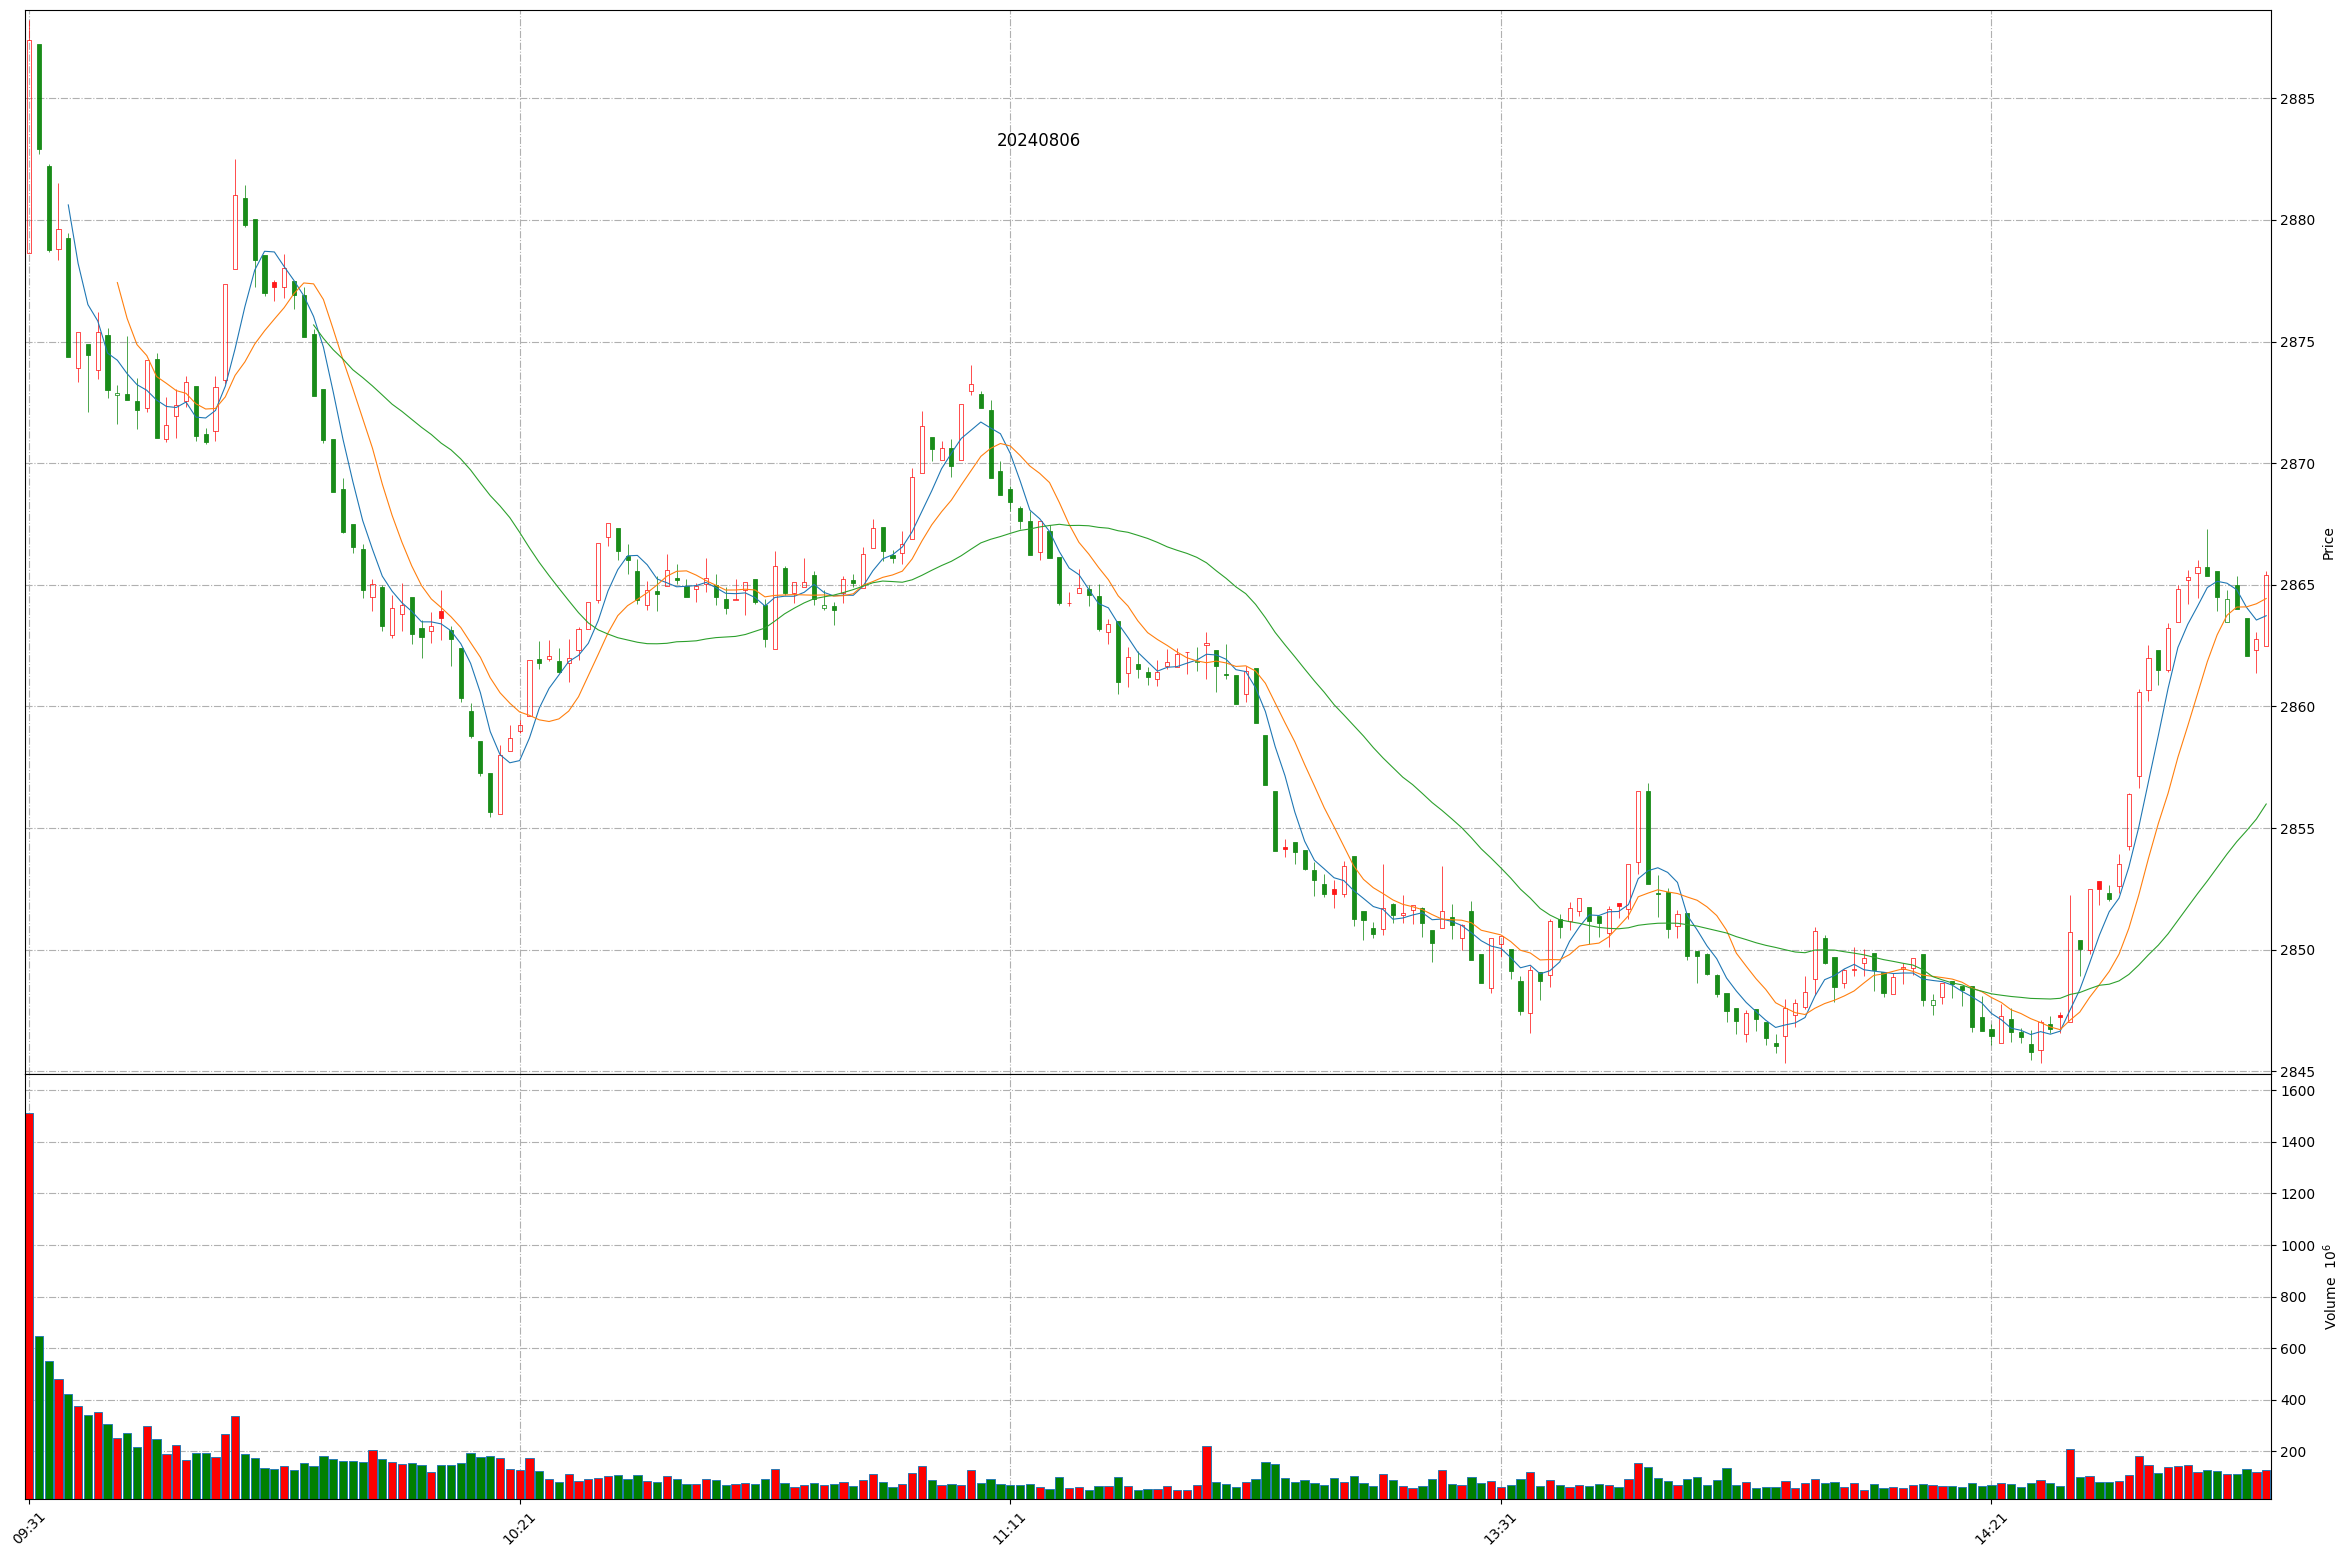
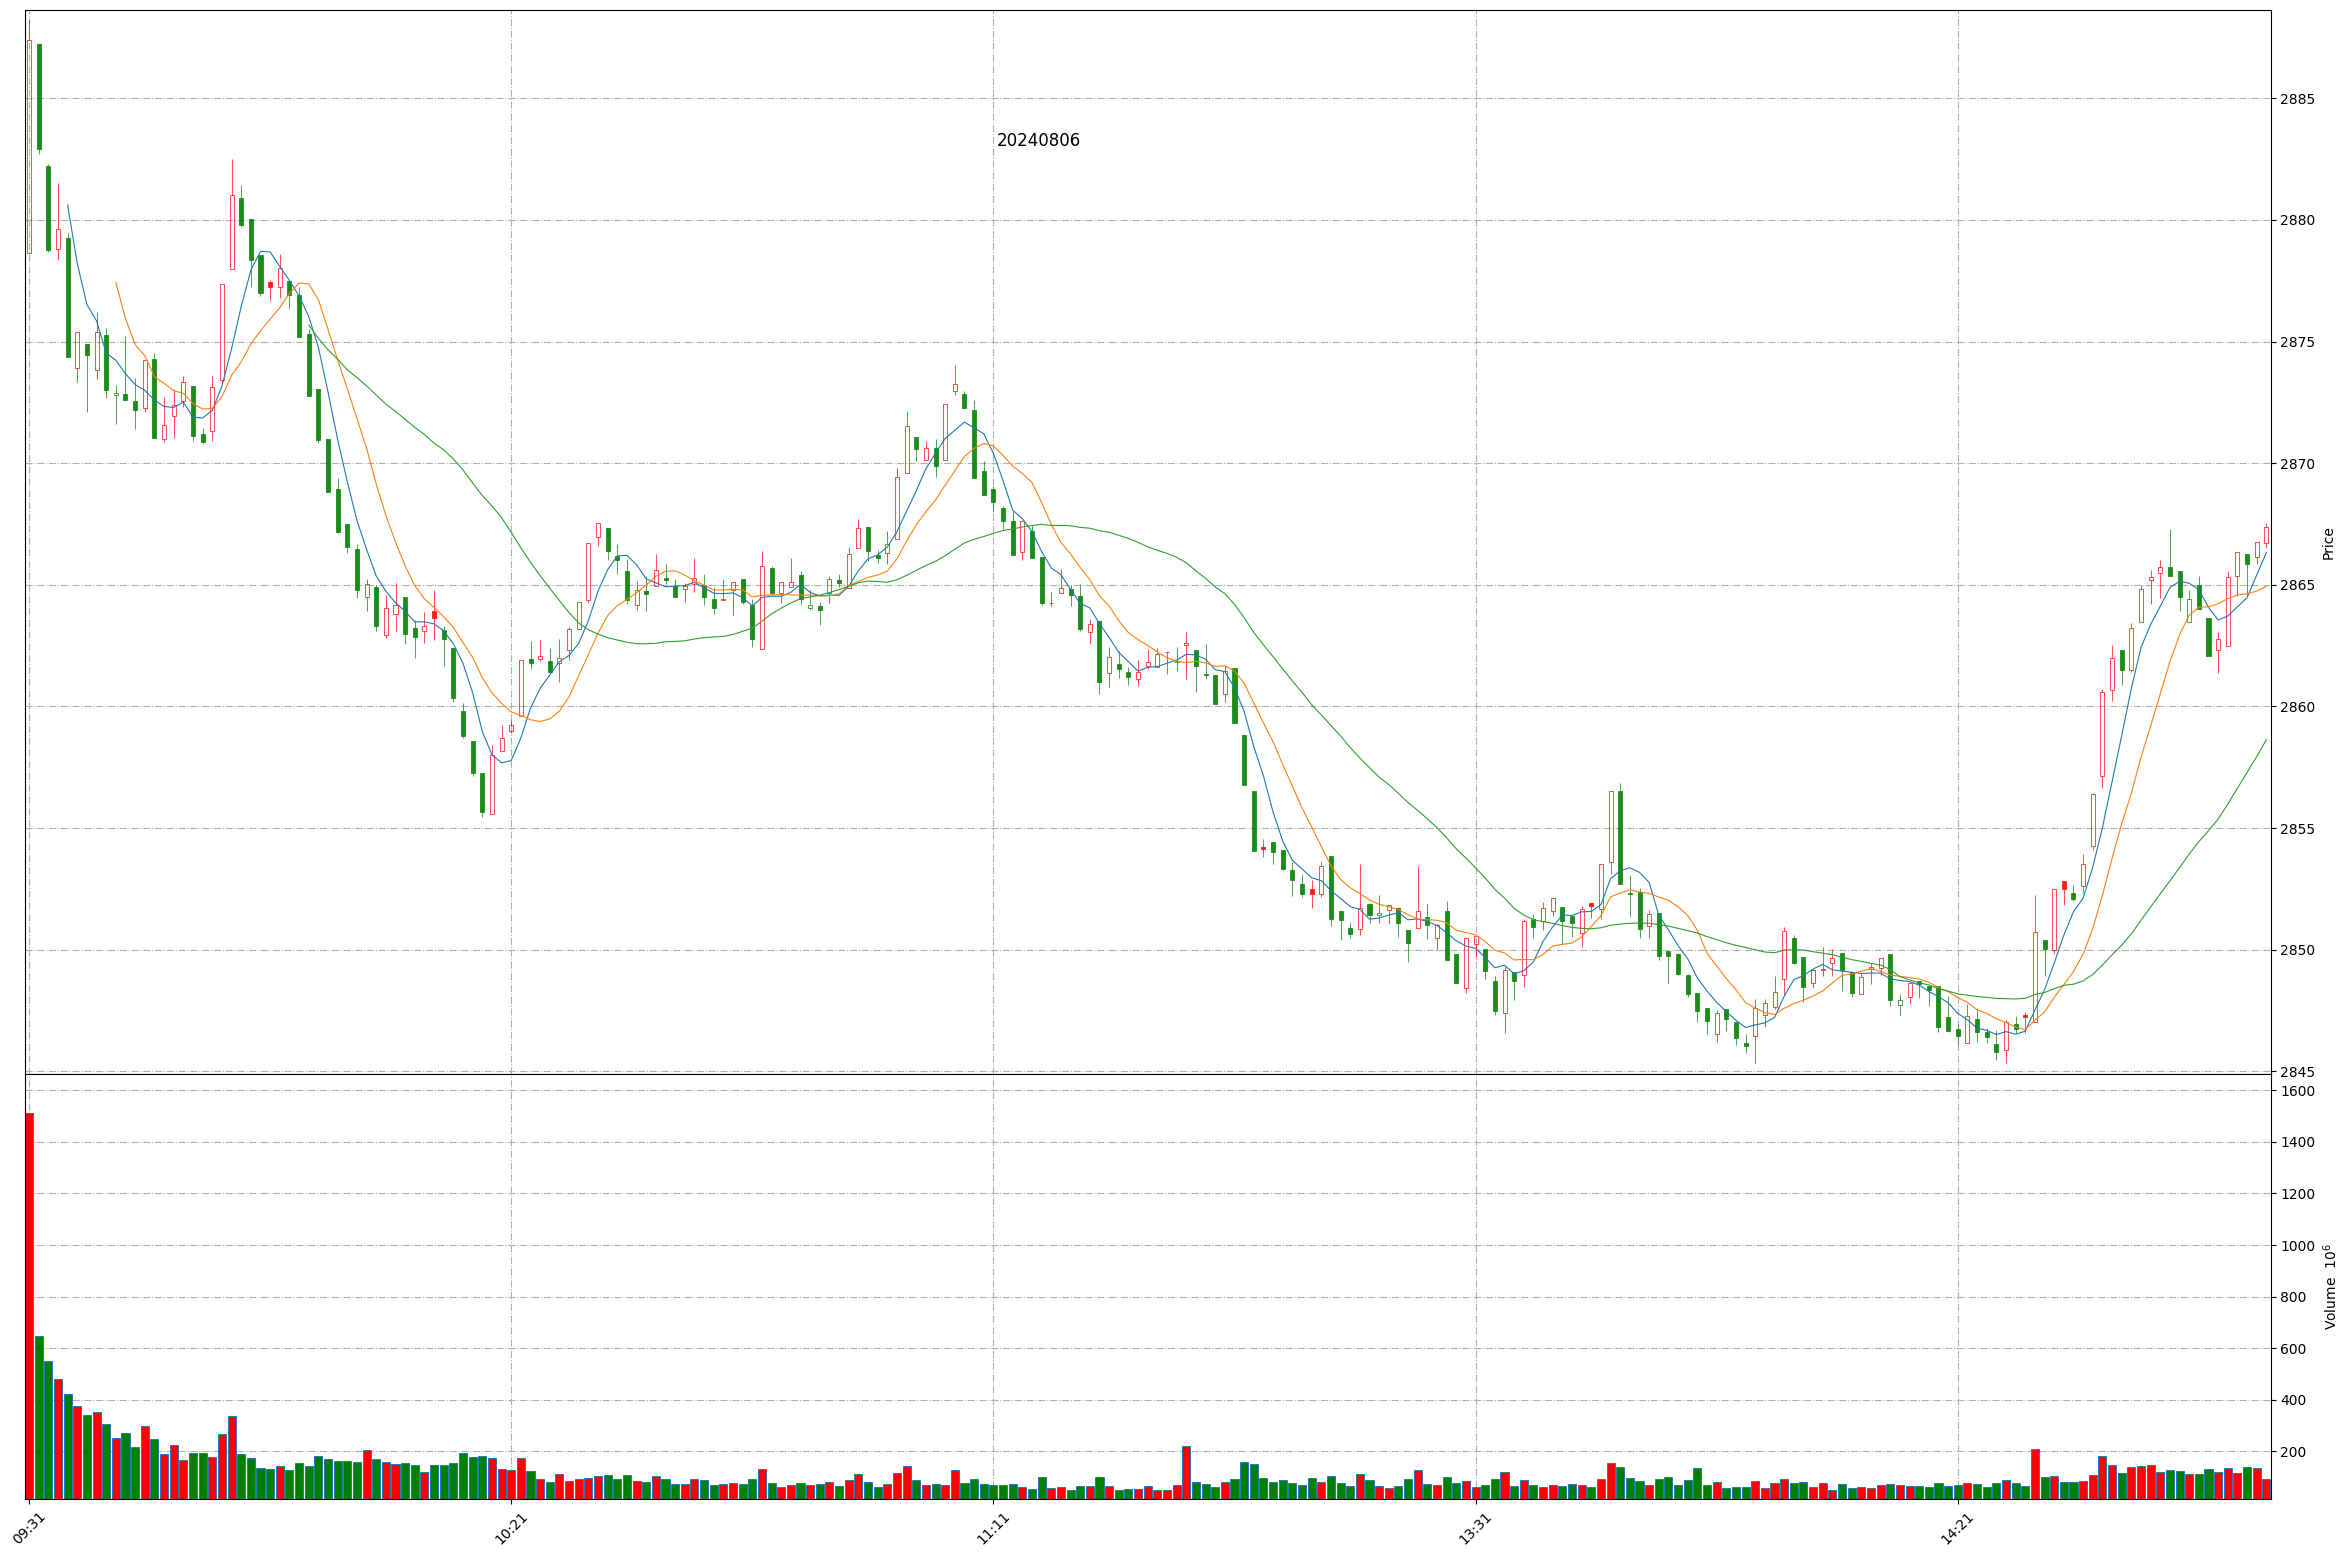
Github action update at 2024-08-06 14:52:52.

diff --git a/README.md b/README.md
@@ -1,11 +1,11 @@
 
 # Daily-A-share-market-quotes 每日 A 股指数（5min 更新）- 20240806
 
-### 上证指数 20240806 14:49
+### 上证指数 20240806 14:52
 ![](./fig/2024/8/20240806-sh000001.png)
 
-### 深证成指 20240806 14:49
+### 深证成指 20240806 14:52
 ![](./fig/2024/8/20240806-sz399001.png)
 
-### 北证50 20240806 14:49
+### 北证50 20240806 14:52
 ![](./fig/2024/8/20240806-bj899050.png)
